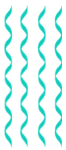
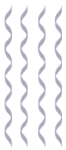
assets\css\style.css assets\img\Shape-1.png resources\views\User\vpnshield.blade.php

diff --git a/assets/css/style.css b/assets/css/style.css
@@ -41216,7 +41216,7 @@ h3.font-semibold.mb-2.text-black.features-one {
     margin: 0 8px 0 0;
     font-size: 24px;
 }
-
+/* End totel-internet-security page */
 
 @media (min-width: 320px) and (max-width: 767px) {
     div#internet-security .landing-main-image {
@@ -41258,14 +41258,14 @@ h3.font-semibold.mb-2.text-black.features-one {
     display: flex !important;
 }
 .hero-animated-card-4 {
-    top: 31%;
+    top: 38%;
     left: -22px;
     width: 16%;
     box-shadow: 0 22px 45px rgba(0, 0, 0, 0.2);
     animation: move-up-down 5s ease-in-out 4s infinite;
 }
 .hero-animated-card-1 {
-    top: 59%;
+    top: 65%;
     left: -20px;
     transform: scale(0.9);
     box-shadow: 0 22px 45px rgba(0, 0, 0, 0.09);
@@ -41276,9 +41276,9 @@ h3.font-semibold.mb-2.text-black.features-one {
     border-radius: 15px;
 }
 .hero-animated-card-3 {
-    top: 35%;
+    top: 45%;
     animation: move-up-down 4s ease-in-out 3s infinite;
-    left: 22rem;
+    left: 23rem;
 }
 .hero-animated-card-2 {
     bottom: 0%;
@@ -41289,11 +41289,11 @@ h3.font-semibold.mb-2.text-black.features-one {
     width: 24%;
     left: 32px;
 }
-
+.hero-animated-card-3 img {
+    height: 85px;
+}
 /* End vpn-shild banner css */
 
-
-/* End totel-internet-security page */
 
 /* kunal-verma 23-04-2024 */
 

diff --git a/resources/views/User/vpnshield.blade.php b/resources/views/User/vpnshield.blade.php
@@ -52,7 +52,7 @@
                                         </div>
                                     </div>
                                     <div class="position-absolute hero-animated-card-3">
-                                        <img src="assets/img/custom-shape.svg" alt="shape">
+                                        <img src="assets/img/shape-1.png" alt="shape">
                                     </div>
                                     <div class="position-absolute p-4 w-75 rounded-custom d-flex secondary-bg hero-animated-card-2">
                                         <div class="small-card-img mr-3 text-white">
